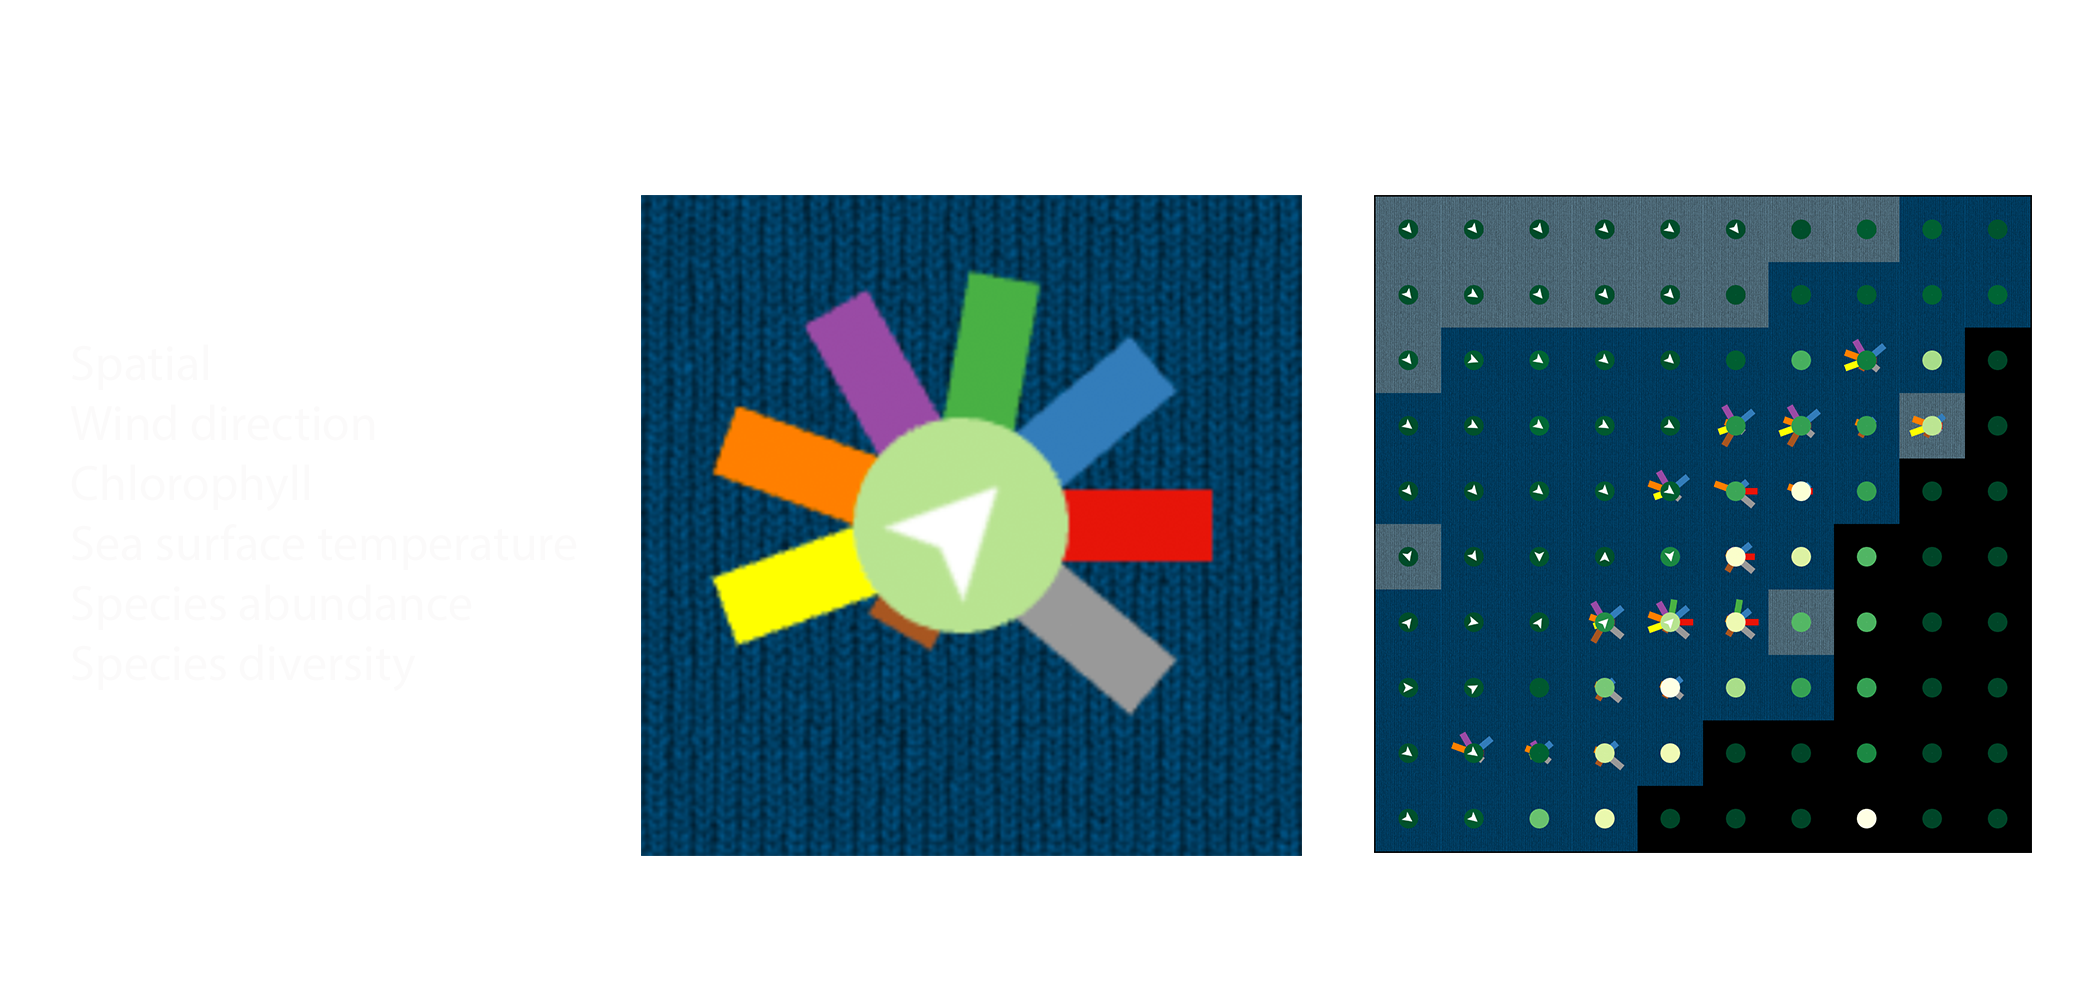
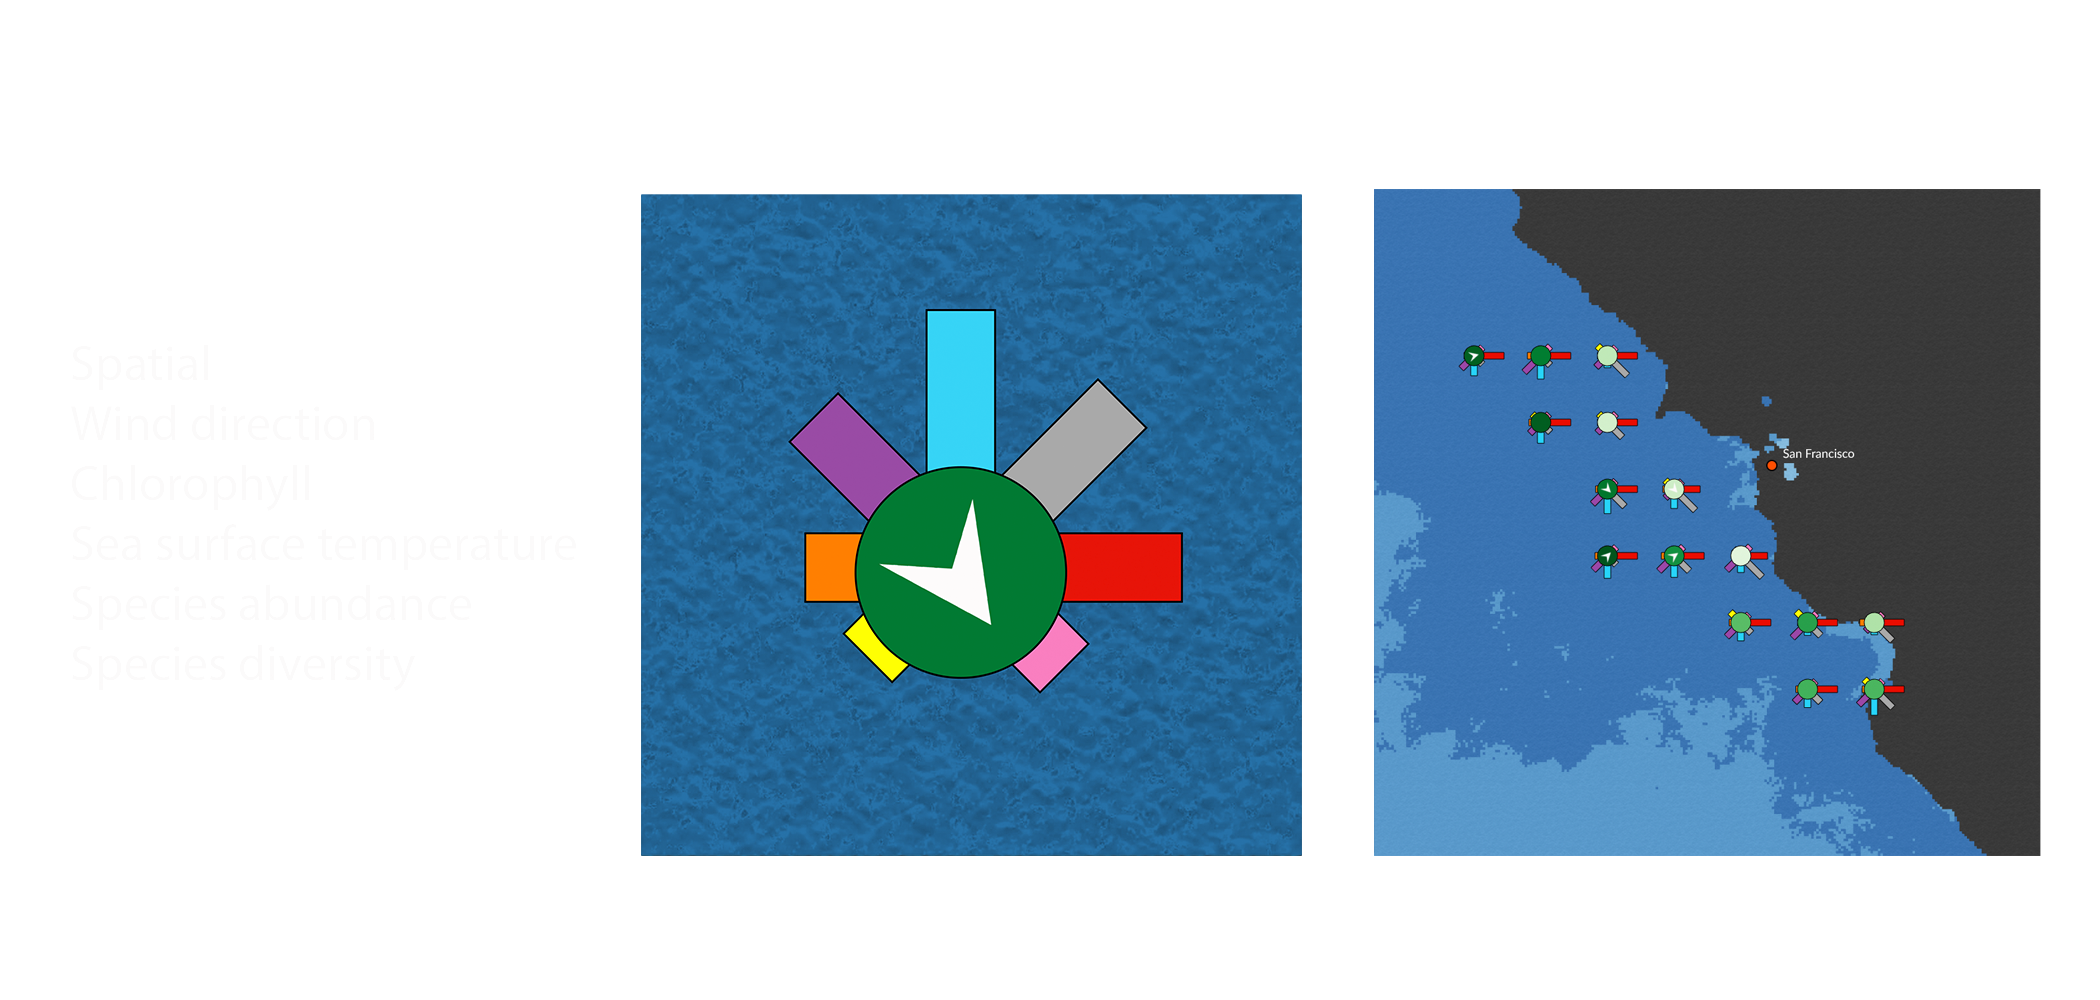
Updated Images and Story

diff --git a/src/js/story.js b/src/js/story.js
@@ -1,15 +1,4 @@
 export const stories = [
-    // {
-    //     'title': 'This is our visualization of species in a specific latitude and longitude range of the ocean in the San Francisco Bay Area in 2009.',
-    //     'canvas': [
-    //         {
-    //             'containerID': 'panel-1',
-    //             'initialYear': 2010,
-    //             'showPop': true,
-    //             'showWeather': false
-    //         }
-    //     ]
-    // },
     {
         'title': 'Periodic Temperature Effects on Biodiversity',
         'titlePage': true,
@@ -47,31 +36,27 @@ export const stories = [
     },
     {
         'explanation': "In order to represent the trawl, we constructed a glyph.",
-        'image': './src/img/step2.png'
+        'image': './src/img/p0.png'
     },
     {
         'explanation': "To understand how climate affects species diversity we needed to consider several variables.",
         'image': './src/img/step1.png'
     },
     {
-        'explanation': "The color of the tile indicates the sea surface temperature.",
+        'explanation': "The center of our glyph has an arrow indicating wind direction.",
         'image': './src/img/p1.png'
     },
     {
-        'explanation': "The center of our glyph has an arrow indicating wind direction.",
+        'explanation': "The color of the circle below denotes cholorophyll levels where brighter means higher presence.",
         'image': './src/img/p2.png'
     },
     {
-        'explanation': "The color of the circle below denotes cholorophyll levels where brighter means higher presence.",
+        'explanation': "Each bar represents a species category that was found in that area up to 9 bars. The more bars present in an area the higher the diversity.",
         'image': './src/img/p3.png'
     },
     {
-        'explanation': "Each bar represents a species category that was found in that area up to 9 bars. The more bars present in an area the higher the diversity.",
-        'image': './src/img/p4.png'
-    },
-    {
         'explanation': "The height of the bar indicates number of unique species in this category.",
-        'image': './src/img/p5.png'
+        'image': './src/img/p4.png'
     },
     {
         'explanation': "We then applied our glyph on a tiled map of the area.",
@@ -82,11 +67,11 @@ export const stories = [
         'image':  './src/img/popOnly_2009.png'
     },
     {
-        'explanation': 'We can see that the sea surface temperatures for this year were rather cold, and chlorophyll levels are rather low. PUT IN LEGEND',
+        'explanation': 'We can see that the sea surface temperatures for this year were rather cold, and chlorophyll levels are rather low.',
         'image': './src/img/weathercholo_2009.png'
     },
     {
-        'explanation': 'Just looking at the population, we see there is some species diversity. PUT IN LEGEND',
+        'explanation': 'Just looking at the population, we see there is some species diversity.',
         'image': './src/img/popOnly_2009.png'
     },
     {
@@ -94,20 +79,20 @@ export const stories = [
         'title-explanation-src': '[*]J. A. Santora, E. L. Hazen, I. D. Schroeder, S. J. Bograd, K. M. Sakuma, and J. C. Field. Impacts of ocean climate variability on biodiversityof pelagic forage species in an upwelling ecosystem. Marine EcologyProgress Series, 580:205–220, 2017.'
     },
     {
-        'explanation': 'In 2011, which was a peak cold year*, we see that this caused a decrease in species diversity in 2012. [*]https://ggweather.com/enso/oni.htm',
-        'image': 'insert histogram'
+        'explanation': 'In 2011, which was a peak cold year*, we see that this caused a decrease in species diversity in 2012. </br> [*]https://ggweather.com/enso/oni.htm',
+        'image': './src/img/2011_2012_compare.png'
     },
     {
-        'explanation': 'If we look at the conditions of the trawl from 2011 to 2014, we see that waters are getting warmer and diversity increases.',
+        'explanation': 'We see a decrease in the diversity of <span style="color:red">Rockfish</span> and an increase for <span style="color:#a65628">Gelatinous</span> species.',
+        'image': './src/img/2011_2012_compare.png'
+    },
+    {
+        'explanation': 'If we look at the conditions of the trawl from 2011 to 2014, we see that waters are getting warmer.',
         'image': './src/img/2011to2014horizontal.png'
     },
     {
-        'explanation': 'We see that in 2013, a warmer water mass, which is seen in white, begins to appear.',
-        'image': './src/img/2011to2014horizontal.png'
-    },
-    {
-        'explanation': 'Then in 2014, the warm water mass takes over and we see areas with red.',
-        'image': './src/img/2011to2014horizontal.png'
+        'explanation': 'We see that in 2013, a warmer water mass, which is seen in white, begins to appear. Then in 2014, the warm water mass takes over.',
+        'image': './src/img/2011to2014caption.png'
     },
     {
         'title': 'We also observed the food web during this time.',
@@ -125,7 +110,7 @@ export const stories = [
         'title': 'All the factors from 2011 to 2014 came together and led to an abnormal increase in biodiversity in 2015.'
     },
     {
-        'explanation': 'Here, we see the interaction of a warm water mass with high chlorophyll levels and wind direction consistent with previous years. PUT IN LEGEND',
+        'explanation': 'Here, we see the interaction of a warm water mass with high chlorophyll levels and wind direction consistent with previous years.',
         'image': './src/img/popOnly_2015.png'
     },
     {

diff --git a/src/js/render/grid.js b/src/js/render/grid.js
@@ -81,14 +81,14 @@ function addCell(xPos,yPos,textures,color, degree, config, cell,year){
 	textures['cloth'].anisotropy = config['renderer'].getMaxAnisotropy();
 	textures['cloth'].magFilter = THREE.NearestFilter;
 	var geometry = new THREE.BoxGeometry( config['cellWidth'], config['cellHeight'], 1 );
-	var material = new THREE.MeshBasicMaterial({map: textures['cloth'], color:color}); //"white"
+	var material = new THREE.MeshBasicMaterial({map: textures['cloth'], color:"white"}); //"white"
 	var mesh = new THREE.Mesh(geometry, material);
 	mesh.position.set(xPos, yPos, 0);
 	group.add(mesh);
 
-	// var sstHD = cell[year]['sstHD'];
-	// var highResBG = higherResOcean(xPos,yPos,config,sstHD);
-	// group.add(highResBG);
+	var sstHD = cell[year]['sstHD'];
+	var highResBG = higherResOcean(xPos,yPos,config,sstHD);
+	group.add(highResBG);
 
 	//toggle aspects of glpyh that relate to weather
 	if(config['showWeather']){
@@ -202,7 +202,6 @@ function drawWind(xPos,yPos,texture, degree, scale){
 	var k = 15 * scale;
 	sprite.scale.set(k,k,1.0);
 	sprite.position.set(xPos, yPos, 5);
-
 	return sprite
 }
 

diff --git a/src/js/constants.js b/src/js/constants.js
@@ -15,11 +15,12 @@ export function getCellWidth(){return CELLWIDTH;}
 export function getCellHeight(){return CELLHEIGHT;}
 
 var steps = 5, speciesNum = 18;
+var tempColors = ['#eff3ff','#bdd7e7','#6baed6','#3182bd','#08519c'];
 export const TEMP_CS = d3.scaleQuantile()
   .domain([20, 10])
-  .range(d3.schemeRdBu[steps].reverse());
+  .range(tempColors.reverse());
 // var speciesNum = 11;
 // export const POP_CS = d3.scaleOrdinal(d3.schemeSpectral[speciesNum]);
 var color =['#e41a1c','#a9a9a9','#42d4f4','#984ea3','#ff7f00','#ffff33','#a65628','#f781bf'];
 export const POP_CS = d3.scaleOrdinal(color);
-export const CHLORO_CS = d3.scaleSequential(d3['interpolateYlGn']).domain([30,0.03]);
+export const CHLORO_CS = d3.scaleSequential(d3['interpolateGreens']).domain([30,0.03]);

diff --git a/src/js/render/scene.js b/src/js/render/scene.js
@@ -31,6 +31,24 @@ function loadMesh(config) {
 	});
 }
 
+
+function noTexture(config){
+	var textures=[];
+	grid.initGrid(textures,config['initialYear'],config);
+	config['renderer'].render( config['scene'], config['camera'] );
+
+	var divCanvas = document.getElementById(config['containerID']);
+	var canvas = divCanvas.getElementsByTagName('canvas')[0];
+	var dataurl = canvas.toDataURL();
+
+	//height is
+	var img = new Image(config['img-dim'],config['img-dim']);
+	img.src = canvas.toDataURL();
+	canvas.remove();
+	divCanvas.appendChild(img);
+	console.log("rendering...");
+}
+
 var scene = {
 	draw: function(config){
 		config['scene'] = new THREE.Scene();
